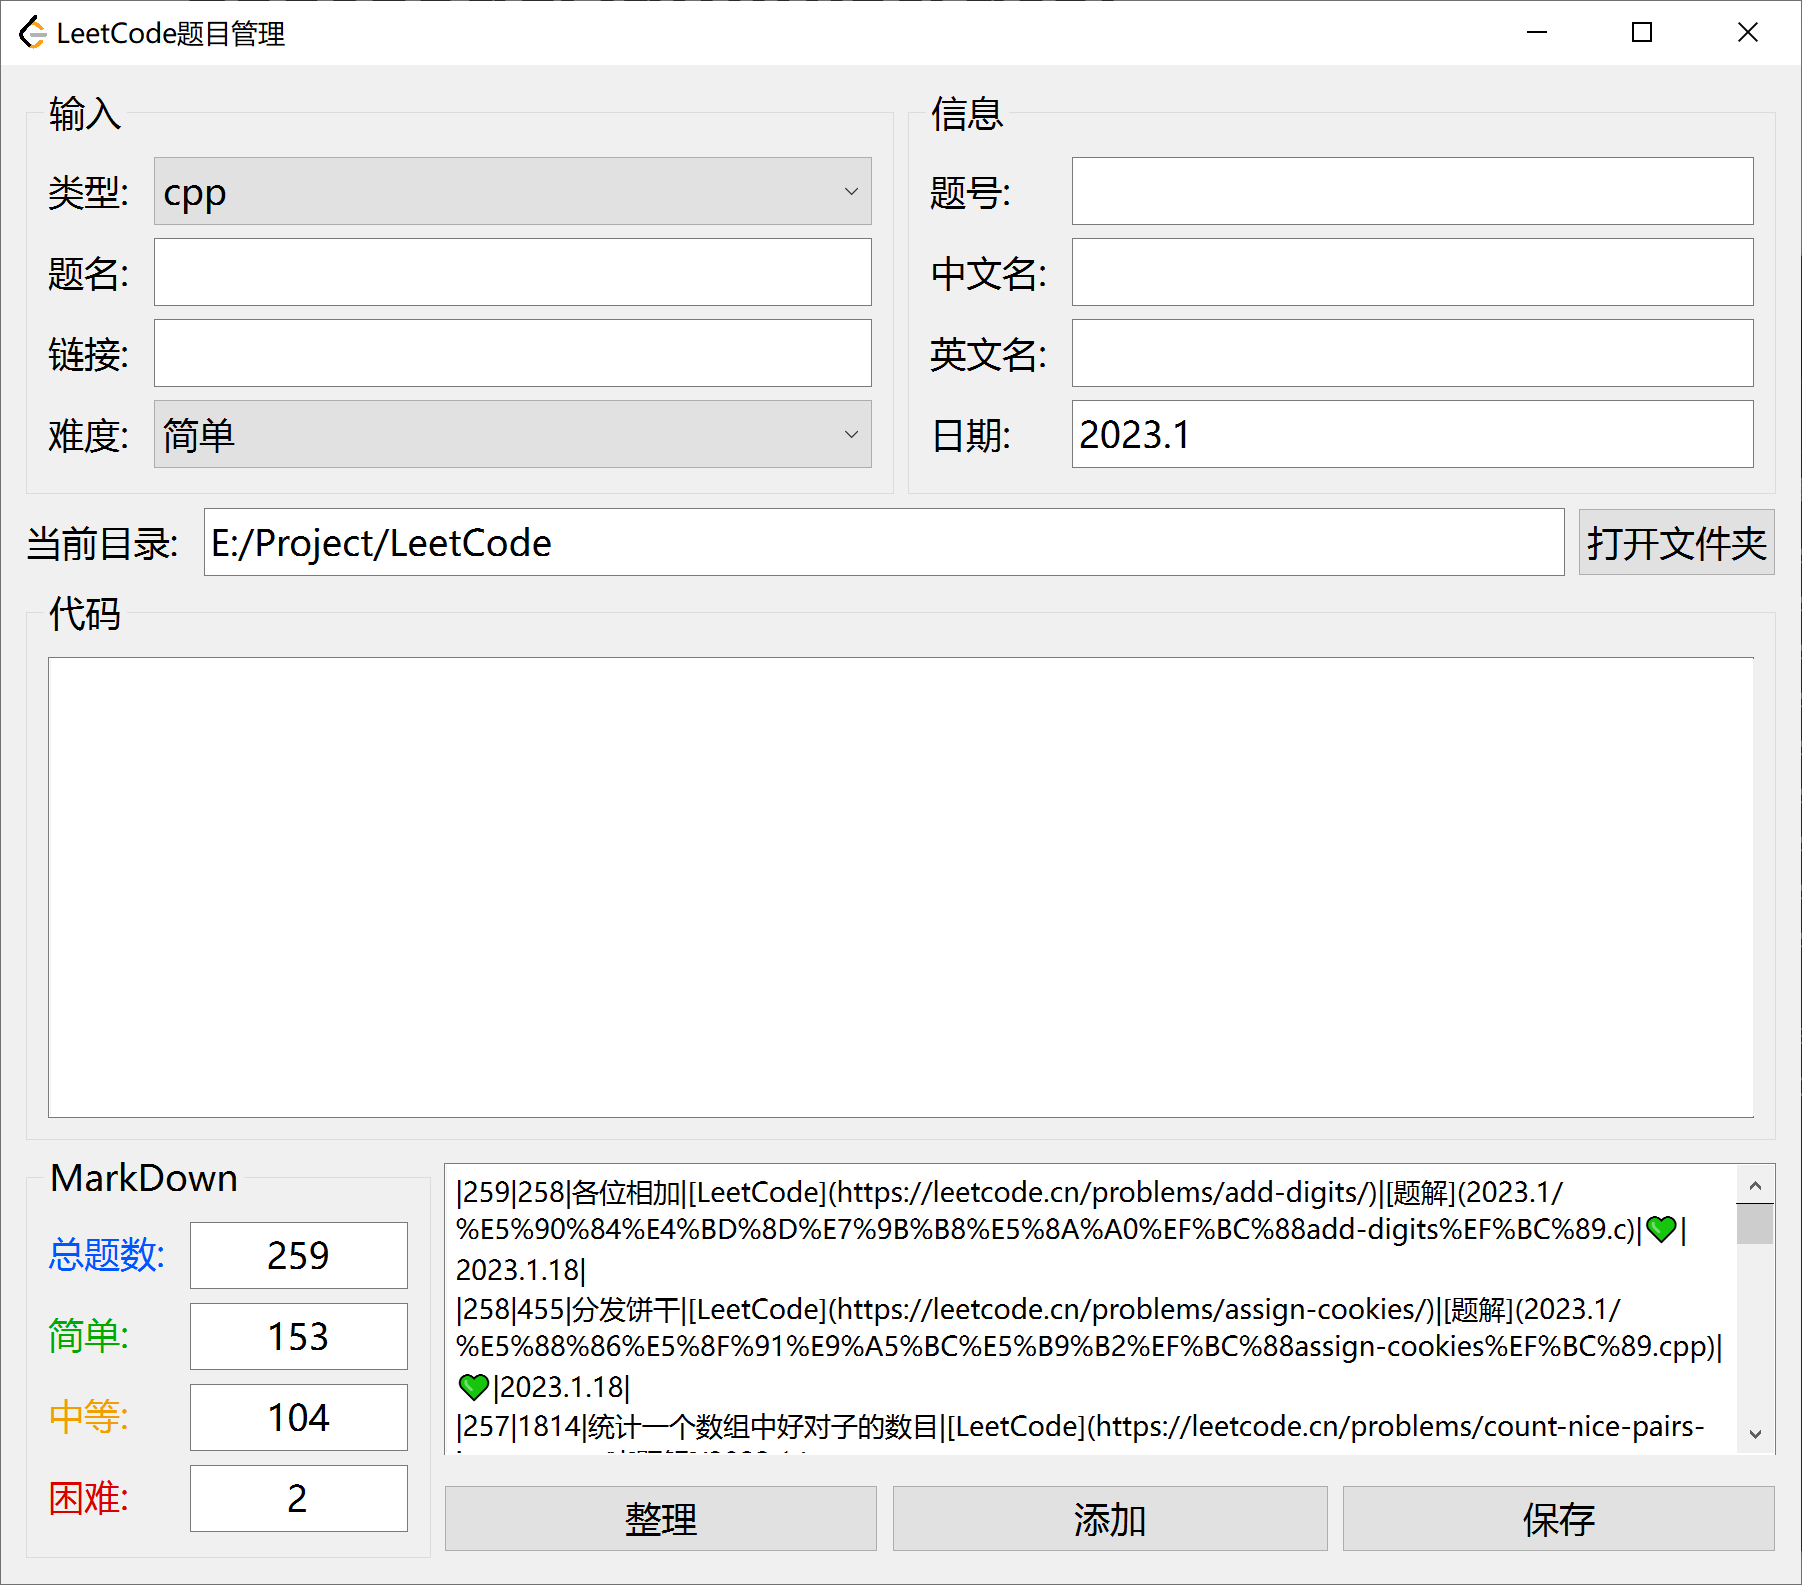
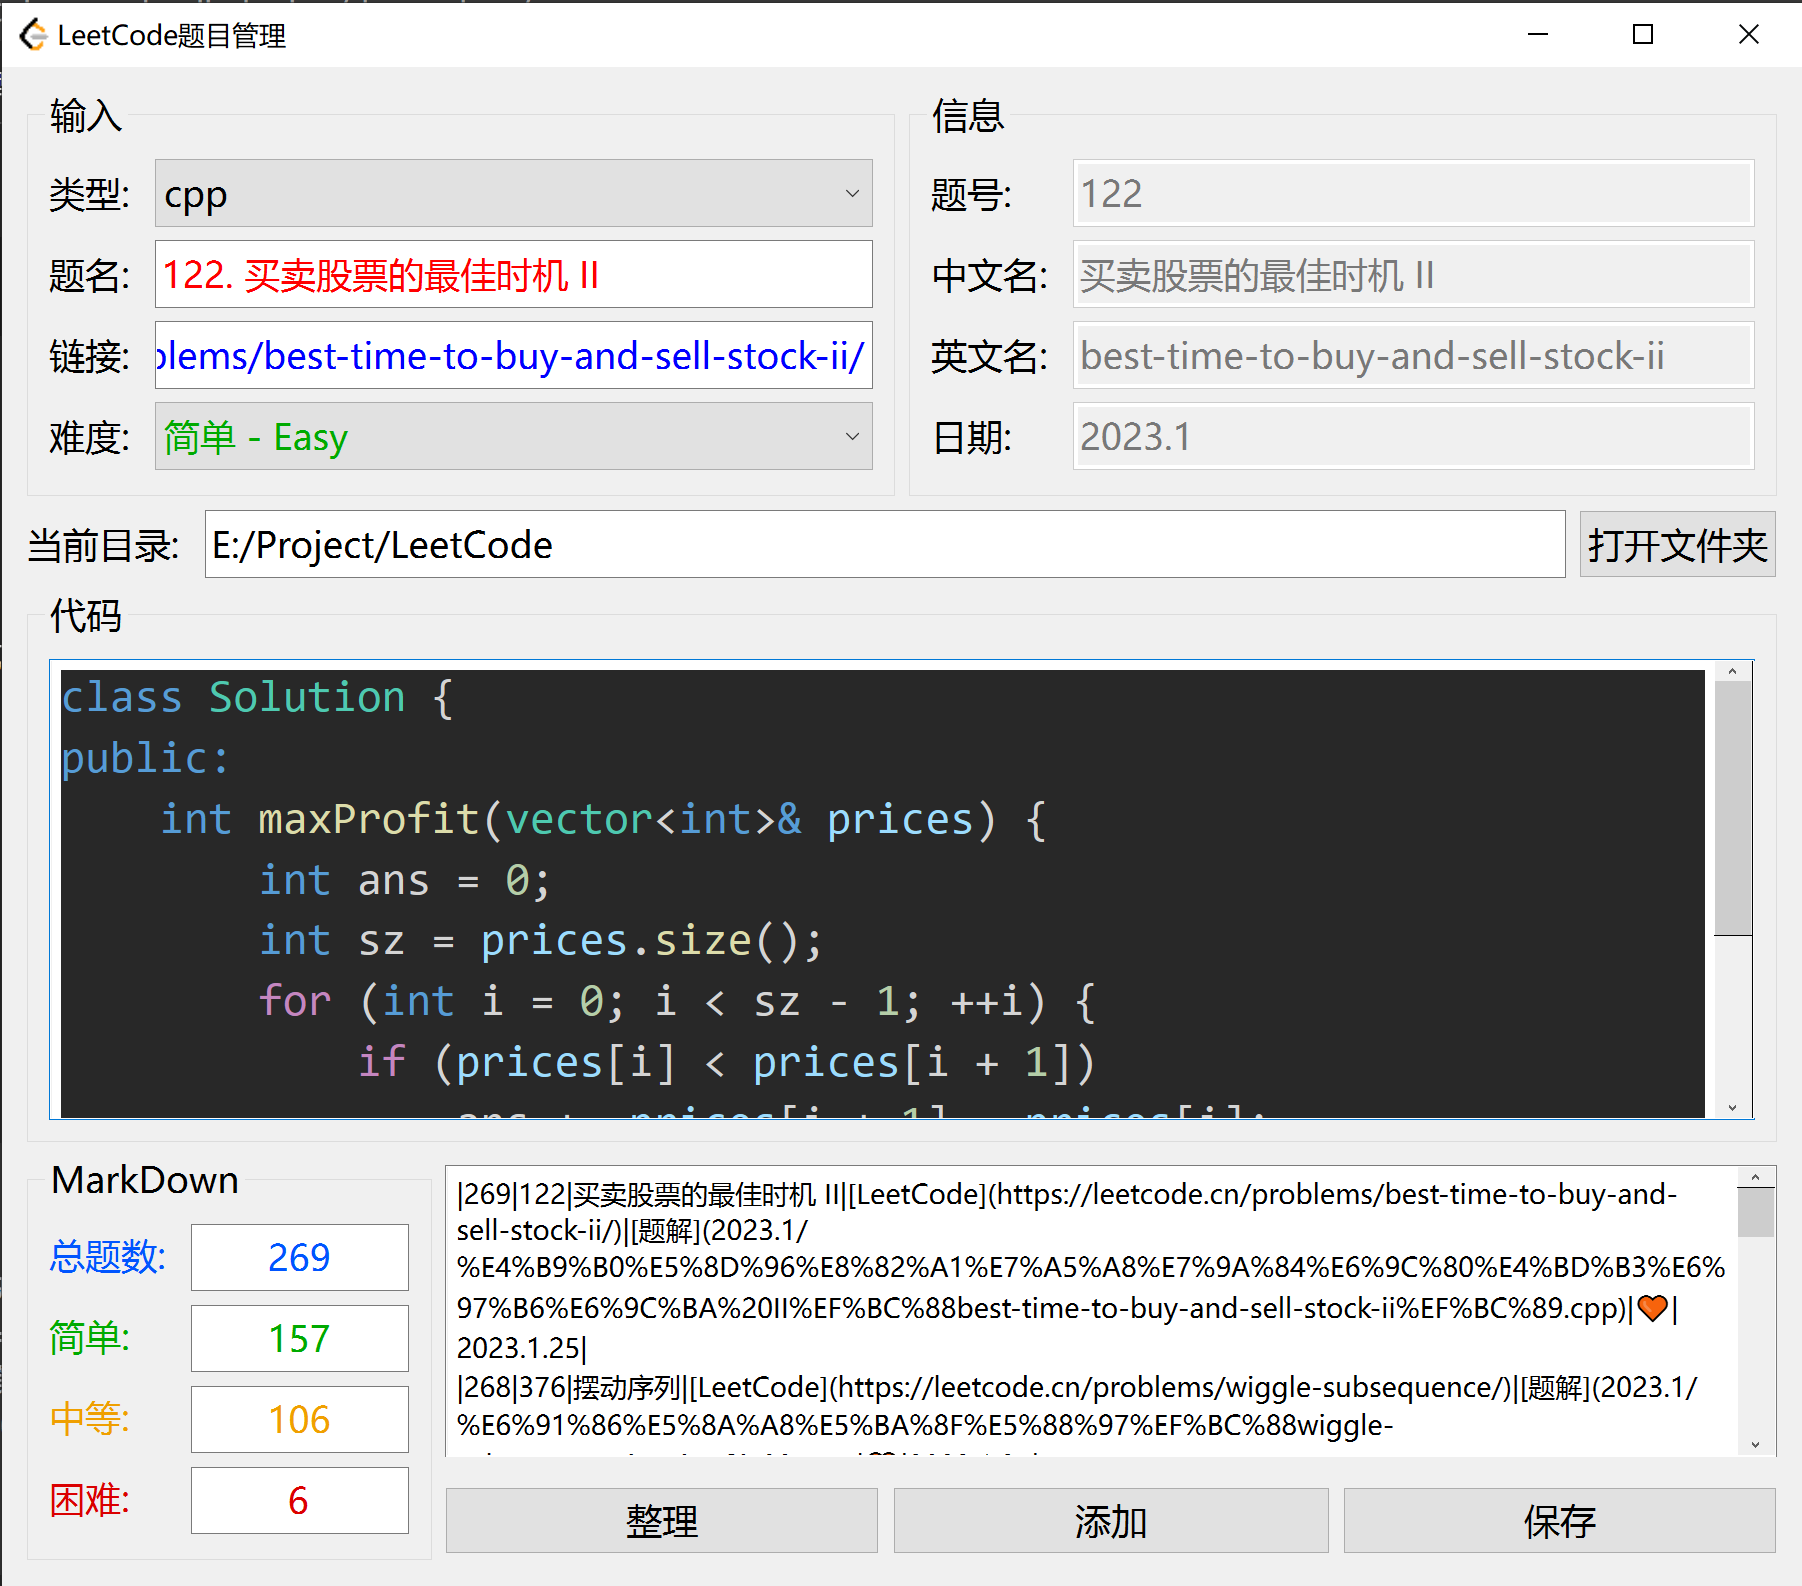
2023.1.25 9:18 v1.0.1

diff --git a/src/widget.cpp b/src/widget.cpp
@@ -19,6 +19,13 @@ Widget::~Widget() {
 }
 
 void Widget::init() {
+    ui->cboDiff->setStyleSheet("color:rgb" + DiffColor::EASY + ";");
+    ui->ledMdEasy->setStyleSheet("QLineEdit{color:rgb" + DiffColor::EASY + "; height: 12px;}");
+    ui->ledMdMedium->setStyleSheet("QLineEdit{color:rgb" + DiffColor::MEDIUM + "; height: 12px;}");
+    ui->ledMdHard->setStyleSheet("QLineEdit{color:rgb" + DiffColor::HARD + "; height: 12px;}");
+    ui->ledMdTotal->setStyleSheet("QLineEdit{color:rgb" + DiffColor::TOTAL + "; height: 12px;}");
+    ui->ledInputName->setStyleSheet("QLineEdit{color:red; height: 12px;}");
+    ui->ledInputLink->setStyleSheet("QLineEdit{color:blue; height: 12px;}");
     if(!md->read()) {
         QMessageBox::critical(this, "错误",
             "当前目录：" + path + \
@@ -137,10 +144,13 @@ void Widget::on_ledInputLink_textChanged(const QString &text) {
                 break;
             ++i;
         }
+        if (text[i] == '/' && i + 1 < text.size()) {
+            ui->ledInputLink->setText(text.left(i + 1));
+        }
         ui->ledInfoEnName->setText(text.mid(start, i - start));
     }
     else {
-        ui->ledInfoEnName->setText("");
+        ui->ledInfoEnName->clear();
     }
 }
 
@@ -196,5 +206,28 @@ void Widget::on_btnSave_clicked() {
         QMessageBox::critical(this, "错误", "写入文件 README.md 失败");
     else
         QMessageBox::about(this, "提示", "保存成功");
+}
+
+
+void Widget::on_cboDiff_currentIndexChanged(int index) {
+    switch (index) {
+    case Difficulty::Easy:
+        ui->cboDiff->setStyleSheet("color:rgb(0,170,0);");
+
+        break;
+    case Difficulty::Medium:
+        ui->cboDiff->setStyleSheet("color:rgb(220,140,0);");
+
+        break;
+    case Difficulty::Hard:
+        ui->cboDiff->setStyleSheet("color:rgb(220,0,0);");
+
+        break;
+    default:
+        break;
+    }
+
+
+
 }
 

diff --git a/src/widget.h b/src/widget.h
@@ -8,6 +8,13 @@ QT_BEGIN_NAMESPACE
 namespace Ui { class Widget; }
 QT_END_NAMESPACE
 
+namespace DiffColor {
+    static const QString EASY = "(0, 170, 0)";
+    static const QString MEDIUM = "(240, 160, 0)";
+    static const QString HARD = "(220, 0, 0)";
+    static const QString TOTAL = "(0, 85, 255)";
+}
+
 class Widget : public QWidget
 {
     Q_OBJECT
@@ -28,8 +35,8 @@ private slots:
     void on_btnOpenFolder_clicked();
     void on_btnTidy_clicked();
     void on_btnAdd_clicked();
-
     void on_btnSave_clicked();
+    void on_cboDiff_currentIndexChanged(int index);
 
 private:
     QString path;

diff --git a/README.md b/README.md
@@ -11,8 +11,6 @@
 git clone https://github.com/AkashiNeko/LeetCode.git
 ~~~
 
-2. 将 [Release](https://github.com/AkashiNeko/LeetCodeAdministrator/releases) 置于克隆仓库的 `LeetCode` 目录下，如下。
+2. 将 [Release](https://github.com/AkashiNeko/LeetCodeAdministrator/releases) 置于克隆仓库的 `LeetCode` 目录下运行。
 
 ![](screenshot/how_to_use.png)
-
-3. 双击`LeetCode_x64`运行。
